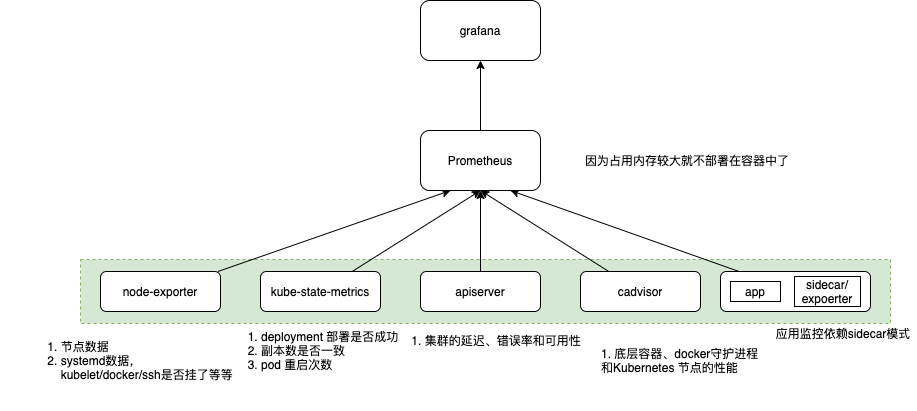
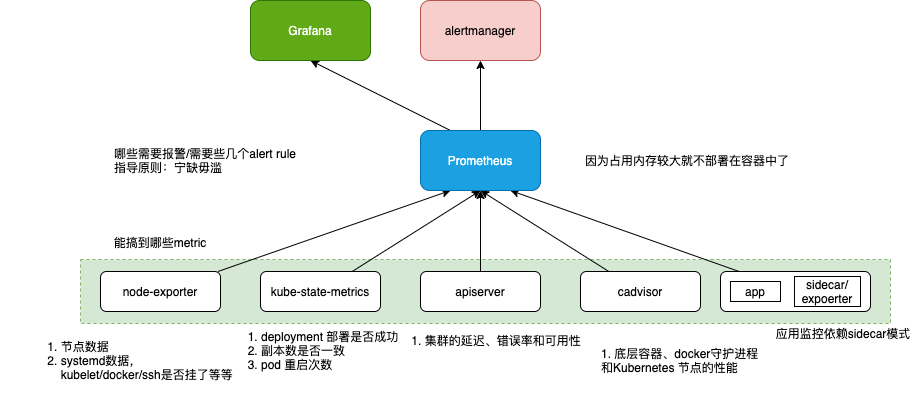
[fix]

diff --git a/_posts/Technology/Kubernetes/2019-03-07-kubernetes_monitor.md b/_posts/Technology/Kubernetes/2019-03-07-kubernetes_monitor.md
@@ -13,7 +13,11 @@ keywords: Kubernetes monitor
 * TOC
 {:toc}
 
-## 容器监控和Kubernetes监控不一样
+![](/public/upload/go/prometheus_k8s.png)
+
+[容器监控实践—K8S常用指标分析](http://www.xuyasong.com/?p=1717)
+
+## 容器监控与常规监控的差异
 
 [Kubernetes监控在小米的落地](https://mp.weixin.qq.com/s/ewwD6A3-ClbotdfFmYY3KA) 为了更方便的管理容器，Kubernetes对Container进行了封装，拥有了Pod、Deployment、Namespace、Service等众多概念。与传统集群相比，Kubernetes集群监控更加复杂：
 
@@ -22,34 +26,137 @@ keywords: Kubernetes monitor
 3. 监控指标随着容器规模爆炸式增长，如何处理及展示大量监控数据。
 4. 随着集群动态增长，监控系统必须具备动态扩缩的能力。
 
-## 监控什么
+## 能搞到哪些metric
 
 ![](/public/upload/kubernetes/kubernetes_monitor.png)
 
-类似于Prometheus的pull理念，应用要自己暴露出一个/metrics，而不是单纯依靠监控组件从”外面“ 分析它
-
-1. 依靠现成组件提供 通用metric
-2. 自己实现
-
-### 自定义监控指标
-
-在过去的很多 PaaS 项目中，其实都有一种叫作 Auto Scaling，即自动水平扩展的功能。只不过，这个功能往往只能依据某种指定的资源类型执行水平扩展，比如 CPU 或者 Memory 的使用值。而在真实的场景中，用户需要进行 Auto Scaling 的依据往往是自定义的监控指标。比如，某个应用的等待队列的长度，或者某种应用相关资源的使用情况。
-
+### Metrics Server（抓取cadvisor 数据）
 
 Metrics server复用了api-server的库来实现自己的功能，比如鉴权、版本等，为了实现将数据存放在内存中吗，去掉了默认的etcd存储，引入了内存存储。因为存放在内存中，因此监控数据是没有持久化的，可以通过第三方存储来拓展
-
-
-## Metrics Server
 
 ![](/public/upload/kubernetes/kubernetes_metric_server.png)
 
 1. Metrics API URI 为 `/apis/metrics.k8s.io/`，在 `k8s.io/metrics` 维护
 2. 必须部署 metrics-server 才能使用该 API，metrics-server 通过调用 Kubelet Summary API 获取数据，Summary API 返回的信息，既包括了 cAdVisor 的监控数据，也包括了 kubelet 本身汇总的信息。Pod 的监控数据是从kubelet 的 Summary API （即 `<kubelet_ip>:<kubelet_port>/stats/summary`）采集而来的。
-3. Metrics server以Deployment 形式存在，复用了api-server的库来实现自己的功能，比如鉴权、版本等，为了实现将数据存放在内存中吗，去掉了默认的etcd存储，引入了内存存储。因此监控数据是没有持久化的，可以通过第三方存储来拓展
+3. **Metrics server以Deployment 形式存在**，复用了api-server的库来实现自己的功能，比如鉴权、版本等，为了实现将数据存放在内存中吗，去掉了默认的etcd存储，引入了内存存储。因此监控数据是没有持久化的，可以通过第三方存储来拓展
 
 从cadvisor 视角看
 
 ![](/public/upload/kubernetes/kubernetes_cadvisor.png)
+
+### node-exporter
+
+node-exporter提供了近1000个指标，以`node_` 为前缀，包括node_cpu_*,node_memory_*, node_filesystem_*/node_disk_*, node_network_* 等。
+
+```yaml
+apiVersion: extensions/v1beta1
+kind: DaemonSet
+metadata:
+  name: node-exporter
+  namespace: monitoring
+  ...
+  spec:
+    tolerations:
+    - key: node-role.kubernetes.io/master
+      effect: NoSchedule
+    hostNetwork: true
+    hostPID: true
+    hostIPC: true
+    securityContext:
+      runAsUser: 0
+```
+
+利用Kubernetes DaemonSet控制器在集群中的每个节点上自动node-exporter pod。
+1. 启用systemd收 集器，并指定要监控的特定服务的正则表达式，而不是主机上的所有服务。
+2. 使用toleration来确保 node-exporter pod也会被调度到Kubernetes主节点，而不仅是工作节点。
+3. 以用户0或root运行pod(这允许访问systemd)，并 且还启用了hostNetwork、hostPID和hostIPC，以指定实例的网络、进程和IPC命名空间在容器中可用。
+
+```yaml
+containers:
+- images: prom/node-exporter:latest
+  name: node-exporter
+  volumeMounts:
+    - mountPath: /run/systemd/private
+      name: systemd-socket
+      readOnly: true
+  args:
+    - "--collector.systemd"
+    - "--collector.systemd.unit-whitelist=(docker|ssh|rsyslog|kubelet).service"
+  ports:
+    - containerPort: 9100
+      hostPort: 9100
+      name: scrape
+```
+
+配置一个Prometheus scrape job，结合Kubernetes daemonset, 只需要定义一次，未来所有Kubernetes服务端点都将被自动发现 和监控。
+
+### cadvisor 指标分析
+
+cadvisor 是监控容器的，容器像物理机一样为业务提供运算资源，因此按照 USE 对容器的指标进行分析。[监控的黄金指标](https://zhuanlan.zhihu.com/p/75875469)
+
+cadvisor 指标以`container_` 为前缀，包括container_cpu_*,container_memory_*, container_fs_*, container_network_* 等，还有 container_spec_* 获取了 container 配置相关的内容。部分指标如下
+
+cpu
+1. container_cpu_user_seconds_total —“用户”时间的总数（即不在内核中花费的时间）
+2. container_cpu_system_seconds_total —“系统”时间的总数（即在内核中花费的时间）
+3. container_cpu_usage_seconds_total—以上总和
+4. container_cpu_cfs_throttled_seconds_total  当容器超出其CPU限制时，Linux运行时将“限制”该容器并在container_cpu_cfs_throttled_seconds_total指标中记录其被限制的时间
+
+cAdvisor中提供的内存指标是从node_exporter公开的43个内存指标的子集。以下是容器内存指标：
+
+1. container_memory_cache-页面缓存的字节数。
+2. container_memory_rss -RSS的大小（以字节为单位）。
+3. container_memory_swap-容器交换使用量（以字节为单位）。
+4. container_memory_usage_bytes-当前内存使用情况（以字节为单位,包括所有内存，无论何时访问。) 包括了文件系统缓存
+5. container_memory_max_usage_bytes- 以字节为单位记录的最大内存使用量。
+6. container_memory_working_set_bytes-当前工作集（以字节为单位）。
+7. container_memory_failcnt-内存使用次数达到限制。
+8. container_memory_failures_total-内存 分配失败的累积计数。
+
+### Apiserver 指标分析
+
+kube-apiserver 是集群所有请求的入口，指标的分析可以反应集群的健康状态。Apiserver 的指标可以分为以下几大类：
+
+1. 请求速率和延迟,  apiserver_request_*/apiserver_response_*
+2. 控制器队列的性能, apiserver_admission_*
+3. etcd 的性能, etcd_*
+4. 进程状态：文件系统、内存、CPU, 
+5. golang 程序的状态：GC、进程、线程, go_gc_*/go_info
+
+### ETCD 指标分析
+
+Kubernetes使用etcd来存储集群中组件的所有状态，是 Kubernetes数据库，监视etcd的性能和行为应该是整个Kubernetes监控计划的一部分。
+
+etcd服务器指标以 etcd_* 为前缀，分为几个主要类别：
+
+1. Leader的存在和Leader变动率, etcd_server_leader_*
+2. 请求已提交/已应用/正在等待/失败, etcd_server_proposals_*
+3. 磁盘写入性能 , etcd_disk_*
+4. 入站gRPC统计信息，集群内gRPC统计信息, etcd_grpc_*
+
+### 业务Pod监控
+
+业务监控 一般由业务直接暴露metric或通过边车模式暴露metric
+
+**在Pod 或Service 中定义注解，可以让Prometheus 自动发现当前metric endpoint 并抓取数据**
+
+```yaml
+apiVersion: v1
+kind: Service
+metadata:
+  name: tornado-db
+  annotations:
+    prometheus.io/scrape: 'true'  # 告诉Prometheus抓取这个服务
+    prometheus.io/port: '9104'    # 告诉 Prometheus要抓取的端口，将被放入__address__标签中
+```
+
+## 需要哪些 alert rule
+
+指导原则：宁缺毋滥。其实有十几个报警就不少了，再多也处理不过来。 可以参照《Prometheus 监控实战》中提到的对Prometheus 的报警规则。
+
+## 制作哪些dashboard
+
+Grafana 官方有一个 [dashboard 市场](https://grafana.com/grafana/dashboards)，可以针对各个组件找到 全面丰富的dashboard 
 
 
 

diff --git a/_posts/Technology/Architecture/2020-06-03-beauty_of_software_design.md b/_posts/Technology/Architecture/2020-06-03-beauty_of_software_design.md
@@ -59,6 +59,14 @@ keywords: system design principle
 
 理解这些原则，关键的第一步还是**分离关注点**（PS：想起了公司的战略拆解会），把不同的内容区分开来。所有原则都是在讲，尽可能把变的部分和不变的部分分开，让不变的部分稳定下来。我们知道，模型是相对稳定的，实现细节则是容易变动的部分。所以，构建出一个稳定的模型层，对任何一个系统而言，都是至关重要的。
 
+几乎每个人在初学设计的时候，都会有用力过猛的倾向。如何把握设计的度，是每个做设计的人需要耐心锤炼的。所以，行业里有人总结了一些实践原则，给了我们一些启发性的规则，帮助我们把握设计的度。KISS 原则，是“Keep it simple, stupid”的缩写，也就是保持简单、愚蠢的意思。它告诫我们，对于大多数系统而言，和变得复杂相比，**保持简单能够让系统运行得更好**。这种级别的原则听上去很有吸引力，但问题是，你并不能用它指导具体的工作。因为，怎么做叫保持简单，怎么做就叫复杂了呢？这个标准是没办法确定的。所以，有人基于自己的理解给出了一些稍微具体一点的原则，比如简单设计（Simple Design）原则：
+1. 通过所有测试；
+2. 消除重复；
+3. 表达出程序员的意图；PS：代码要说明做什么，而不是怎么做。
+4. 让类和方法的数量最小化。
+
+没有良好的设计，代码就没有可测试的接口，根本没有办法测试，TDD 也就无从谈起。不懂设计，重构就只是简单的提取方法，改改名字，对代码的改进也是相当有限的。
+
 ## 设计模式
 
 如果用数学来比喻的话，**设计原则就像公理**，它们是我们讨论各种问题的基础，而**设计模式则是定理**，它们是在特定场景下，对于经常发生的问题给出的一个可复用的解决方案。设计模式之所以能成为一个特定的解决方案，很大程度上是因为它是一种好的做法，符合软件设计原则，所以，设计原则其实是这些模式背后的东西。

diff --git a/_posts/Life/2020-02-23-2020_review.md b/_posts/Life/2020-02-23-2020_review.md
@@ -40,6 +40,8 @@ The master has failed more times than the beginner has tried.
 
 我们不能玩霸道总裁向，不能说“我不要你觉得，我要我觉得”。而是要玩霸道码农向，要说“我不要我觉得，我要你觉得”。**快给我觉，我说的这个怎么样，有没有感觉，这个 feel 对不对。不对我们继续聊**。
 
+当每个人的观点有冲突时，光凭直觉、猜测、经验都无法让对方信服。
+
 ### 上下沟通
 
 一个事情2天干完是惊喜，4天干完是完成任务， 一周干完是能力一般，一周干完还到处漏水 不能留。
